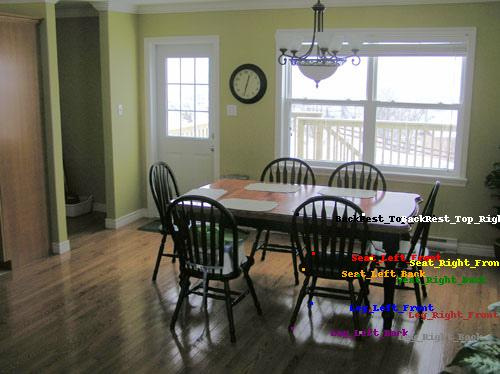
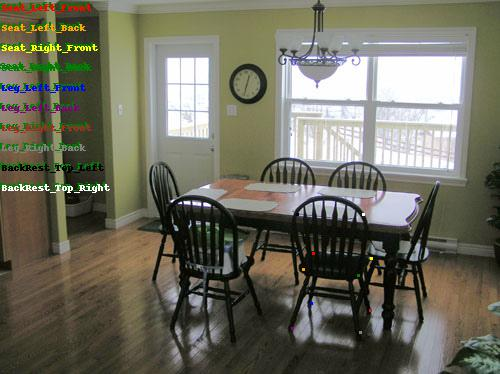
'updates'

diff --git a/cross_benchmark.py b/cross_benchmark.py
@@ -32,7 +32,7 @@ class CrossBenchmark(Benchmark):
         # print('\nget_id_combinations')
         if cls == None:
             clss = None
-        elif type(cls) == str:
+        elif type(cls) == str: # also takes in cross string ex. 'cat_chair'
             clss = cls
 
         with open(self.data_list_path) as f1:
@@ -46,13 +46,13 @@ class CrossBenchmark(Benchmark):
             data_list1 = []
             data_list2 = []
             if self.name != 'SPair71k':
-                for id in data_id:
-                    # print(f"id: {id}") #id: 2008_004259_1_tvmonitor (comes from train.json)
-                    if self.data_dict[id]['cls'] == class1:
+                for id in data_id: #id: 2008_004259_1_tvmonitor (comes from train.json)
+                    # print(f"id: {id}")
+                    if self.data_dict[id]['cls'] == class1:     # find ids from class1
                         data_list1.append(id)
-                    elif self.data_dict[id]['cls'] == class2:
+                    elif self.data_dict[id]['cls'] == class2:   # find ids from class2
                         data_list2.append(id)
-                id_combination = [(i, j) for i in data_list1 for j in data_list2]
+                id_combination = [(i, j) for i in data_list1 for j in data_list2]   # combines two lists, all combinations
                 # id_combination = list(itertools.combinations(data_list, num))
                 length += len(id_combination)
                 id_combination_list.append(id_combination)

diff --git a/render_keypoints.py b/render_keypoints.py
@@ -19,9 +19,11 @@ def add_labels(img_src, img_data):
 
     colors = ['red', 'orange', 'yellow', 'green', 'blue', 'purple', 'brown', 'grey', 'black', 'white']
     circle_size = 3
+    padding = 0
     for label, color in zip(labels, colors):
         draw.ellipse((label[1], label[2], label[1] + circle_size, label[2] + circle_size), width=5, fill=color)
-        draw.text((label[1] + 40, label[2]), label[0], fill=color)
+        draw.text((0, 0+padding), label[0], fill=color, stroke_width=2, stroke_fill='green')
+        padding += 20
     return img_src
 
 def render_one(img):

diff --git a/main.py b/main.py
@@ -61,7 +61,7 @@ image_dataset = {
                      cfg.PROBLEM.TYPE)
         for x in ('train', 'test')}
 
-print(image_dataset['train'].bm)
+# print(image_dataset['train'].bm.get_id_combination('cat_chair'))
 
 dataloader = {x: get_dataloader(image_dataset[x], shuffle=True, fix_seed=(x == 'test')) for x in ('train', 'test')}
 
